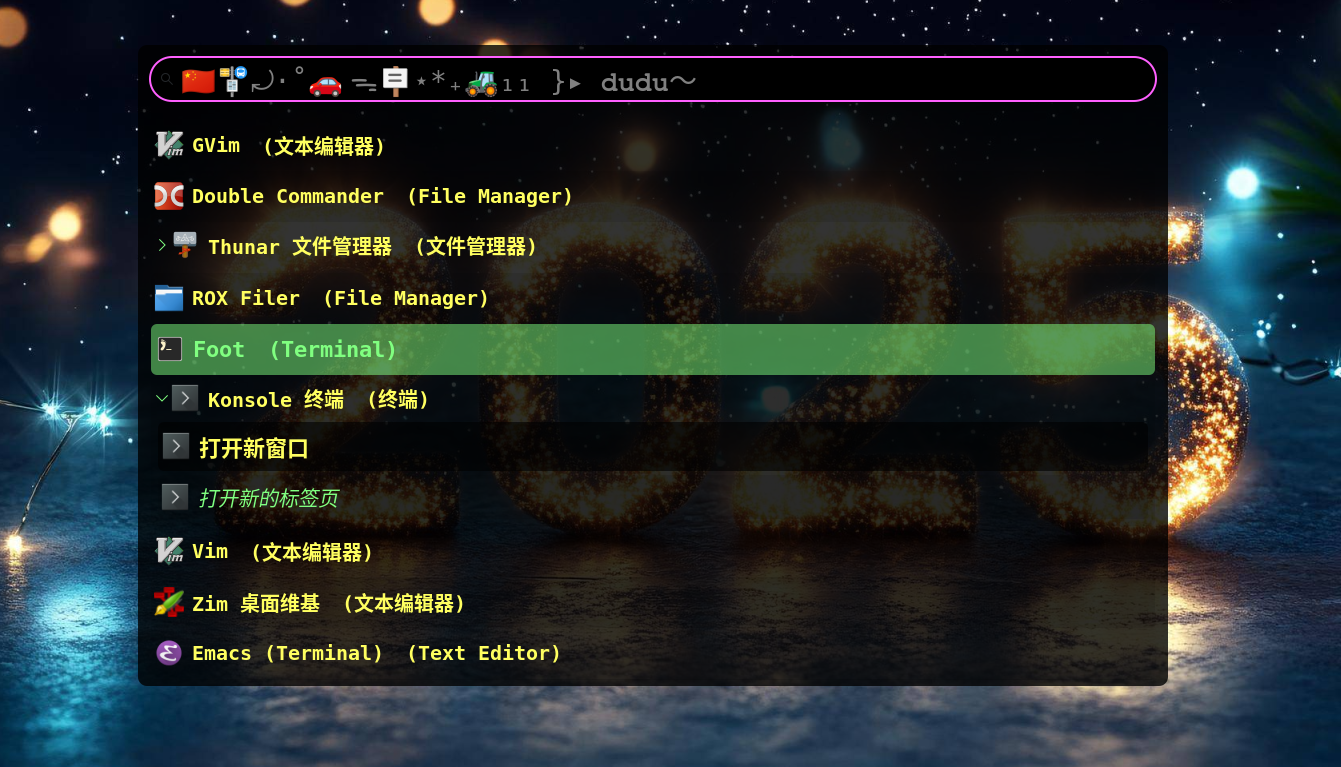
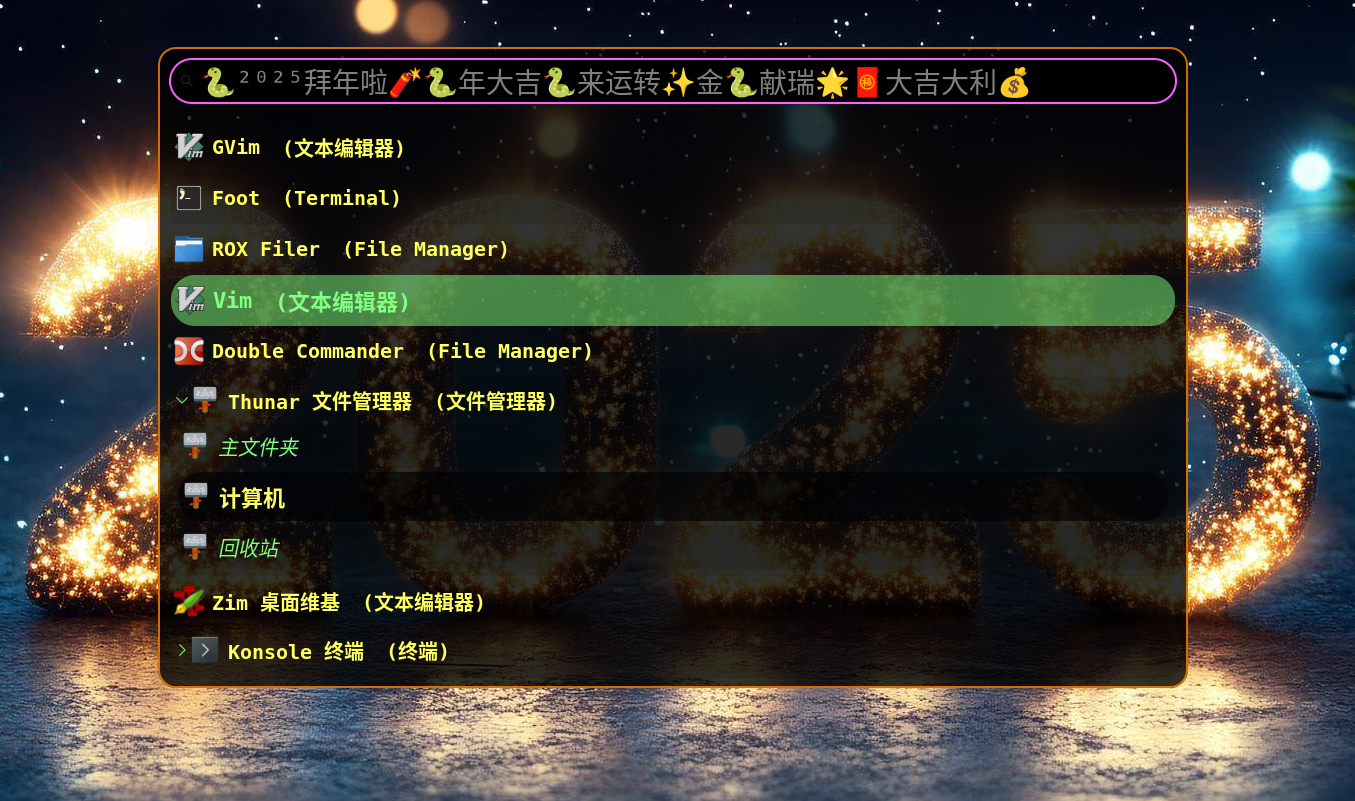
更新BGPY2025的效果。

diff --git a/BGPY2025/style.css b/BGPY2025/style.css
@@ -8,8 +8,8 @@
 window {
     margin: 0px;
     font-size: 20px;            /*v1.4.1,字体写在此处保证每次窗口都居中*/
-    border-radius: 9px;
-    border: 2px solid rgba(0,0,0,0);
+    border-radius: 18px;
+    border: 2px solid rgba(255,136,0,0.8);
     background-color: rgba(0,0,0,0.8);
 }
 
@@ -74,7 +74,7 @@ window {
 /*选中的条目*/
 #entry:selected {
     margin: 0px;
-    border-radius: 6px;
+    border-radius: 24px;
     border: 1px solid transparent;
     background-color: rgba(128,255,128,0.5);
 }
@@ -88,12 +88,19 @@ window {
     /*border: 3px solid yellow;*/
     /*background-color: blue;*/
 }
+/*选中条目的字体*/
+/*#entry:selected #text {*/
+    /*font-size: 22px;*/
+    /*font-weight: bold;*/
+    /*color: rgba(0,170,170,0.8);*/
+/*}*/
+
 
     /*条目的子项目*/
     #entry.activatable {
         /*border: 2px solid yellow;*/
         margin: 2px;
-        border-radius: 6px;
+        border-radius: 24px;
         background-color: rgba(0,0,0,0.1);
         /*border-bottom-width: 1px; */
         /*border-bottom-color: cyan; */
@@ -134,7 +141,7 @@ window {
     /*子条目的背景*/
     #expander-box {
         margin: 2px;
-        border-radius: 6px;
+        border-radius: 24px;
         background-color: rgba(26,30,36,0.01);
     }
 
